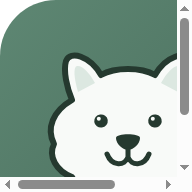
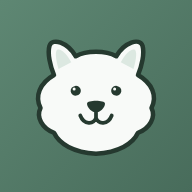
Corregir centrado y fondo de los iconos PNG para el lanzador móvil

diff --git a/service-worker.js b/service-worker.js
@@ -1,5 +1,5 @@
 /* Service Worker offline-first para la PWA privada de Doña Elena */
-const CACHE_NAME = 'dona-elena-endo-v3';
+const CACHE_NAME = 'dona-elena-endo-v4';
 
 const APP_SHELL = [
   './',
